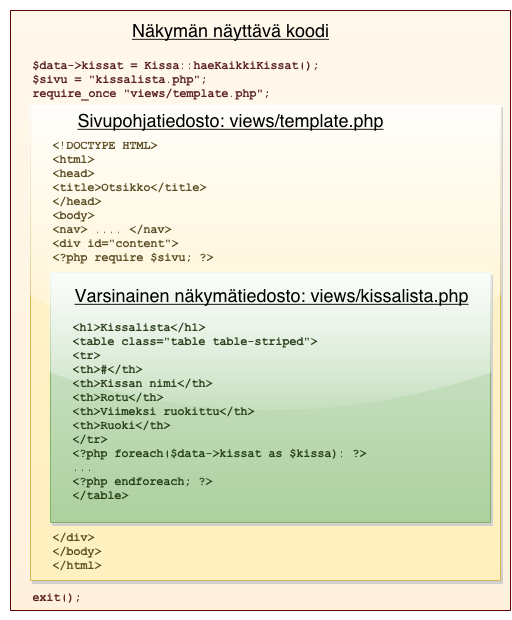
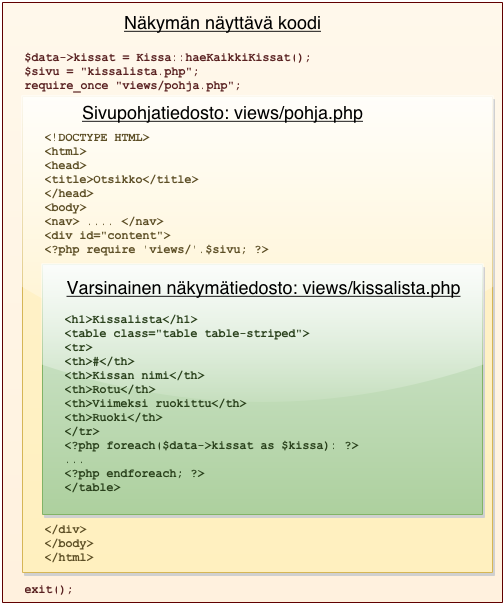
Clarifications to names and stuff

diff --git a/koodaaminen/php/nakymat.html b/koodaaminen/php/nakymat.html
@@ -224,22 +224,31 @@ Lisätietoa
 <p>Kokeile avata tämä sivu selaimella. Jos teet työtä usersilla URL on todennäköisesti <a href="http://tunnuksesi.users.cs.helsinki.fi/login.php">http://tunnuksesi.users.cs.helsinki.fi/login.php</a>.</p>
 <p>Selaimeesi pitäisi tulla sama kirjautumislomake kuin aikaisemminkin. Tämä on vielä melko tylsää, mutta jatketaan tekemällä näkymien tekemisestä helpompaa.</p>
 </section>
-<section id="template-pohjatiedoston-käyttö" class="level2">
-<h2>Template-pohjatiedoston käyttö</h2>
+<section id="html-runko-ja-pohjatiedoston-käyttö" class="level2">
+<h2>HTML-runko ja pohjatiedoston käyttö</h2>
 <p>Käytännössä suurin osa ohjelmaasi tulevista sivuista tulee sisältämään samanlaisen HTML-rungon, johon sisältyvät sivunavigaatio sekä head-tägin sisältämät otsakkeet ja tyylitiedostolinkit.</p>
-<p>Tämän rungon koodia ei turhaan kannata toistaa, vaan se kannattaa sijoittaa omaan uudelleenkäytettävään tiedostoonsa.</p>
+<p>Tämän rungon koodia ei turhaan kannata toistaa, vaan se sijoitetaan omaan uudelleenkäytettävään tiedostoonsa.</p>
 <p>PHP:llä tälläisille uudelleenkäytettävät HTML-pohjille ei ole mitään yleisesti käytettyä standarditoteutusta. Yleensä ne toteutetaan jonkinlaisella näkymäluokalla.</p>
 <p>Eräs suhteellisen yksinkertainen tapa on toteuttaa pohja siten että sijoitetaan pohjatiedostoon kaikki sivujen sisällön ympärillä pyörivä HTML-koodi ja laitetaan itse sisällön paikalle require-kutsu:</p>
 <pre class="sourceCode php"><code class="sourceCode php">&lt;!DOCTYPE HTML&gt;
 &lt;html&gt;
 ...html-koodia...
-  <span class="kw">&lt;?php</span> <span class="kw">require</span> <span class="kw">$sivu</span><span class="ot">;</span> <span class="kw">?&gt;</span>
+  <span class="kw">&lt;?php</span> 
+    <span class="co">/* HTML-rungon keskellä on sivun sisältö, </span>
+<span class="co">     * joka haetaan sopivasta näkymätiedostosta.</span>
+<span class="co">     * Oikean näkymän tiedostonimi on tallennettu muuttujaan $sivu.</span>
+<span class="co">     */</span>
+    <span class="kw">require</span> <span class="st">&#39;views/&#39;</span>.<span class="kw">$sivu</span><span class="ot">;</span> 
+  <span class="kw">?&gt;</span>
 ...html-koodia...
 &lt;/html&gt;</code></pre>
 <p>Nyt pohjan ja näkymätiedoston yhdessä käyttämiseen riittää, että tallennetaan näkymätiedoston nimi näkymää käyttävässä sivussa muuttujaan <code>$sivu</code> ja sisällytetään pohjatiedosto <code>require</code>-funktiolla.</p>
 <pre class="sourceCode php"><code class="sourceCode php"><span class="kw">&lt;?php</span>
   <span class="kw">$sivu</span> = <span class="st">&#39;login.php&#39;</span><span class="ot">;</span>
-  requre <span class="st">&#39;views/pohja.php&#39;</span><span class="ot">;</span></code></pre>
+
+  <span class="co">//Pohjatiedosto huolehtii sekä HTML-rungon, </span>
+  <span class="co">//että oikean näkymän näyttämisestä</span>
+  <span class="kw">require</span> <span class="st">&#39;views/pohja.php&#39;</span><span class="ot">;</span></code></pre>
 <p>Kun sivupohja on käytössä, jokainen sivu rakentuu kerroksittain kuten tässä kaaviokuvassa:</p>
 <figure>
 <img src="../../images/koodaaminen/template-selitys-php.png" alt="Sivupohjan, näkymän ja näkymän näyttävän koodin väliset suhteet" /><figcaption>Sivupohjan, näkymän ja näkymän näyttävän koodin väliset suhteet</figcaption>

diff --git a/koodaaminen/java/nakymat.html b/koodaaminen/java/nakymat.html
@@ -271,8 +271,8 @@ request.<span class="fu">setAttribute</span>(<span class="st">&quot;kissat&quot;
 <pre class="sourceCode jsp"><code class="sourceCode jsp">&lt;%@include<span class="ot"> file</span>=<span class="st">&quot;navigaatio.jspf&quot;</span><span class="ot"> </span>%&gt;</code></pre>
 <p>Sisällytetyn tiedoston sisältö tulee include-lauseen kohtaan sellaisenaan ikäänkuin tiedosto olisi copy-pastettu siihen suoraan.</p>
 </section>
-<section id="template-pohjatiedoston-käyttö" class="level2">
-<h2>Template-pohjatiedoston käyttö</h2>
+<section id="tag-pohjatiedoston-käyttö" class="level2">
+<h2>Tag-pohjatiedoston käyttö</h2>
 <p>Käytännössä suurin osa ohjelmaasi tulevista sivuista tulee sisältämään samanlaisen HTML-rungon, johon sisältyvät sivunavigaatio sekä head-tägin sisältämät otsakkeet ja tyylitiedostolinkit.</p>
 <p>Tämän rungon koodia ei turhaan kannata toistaa, vaan se kannattaa sijoittaa omaan uudelleenkäytettävään tiedostoonsa. Javalla tälläiset uudelleenkäytettävät HTML-pätkät kannattaa toteuttaa erityisinä JSP-tägitiedostoina.</p>
 <p>Tagitiedoston sisälle voi laittaa mitä tahansa HTML-koodia aivan kuten JSP-tiedostoonkin. Tärkein kohta koodissa on kuitenkin käsky <code>&lt;jsp:doBody/&gt;</code>, jolla voi upottaa tägiin jotain tägin käyttäjän määrittelemää sisältöä.</p>
